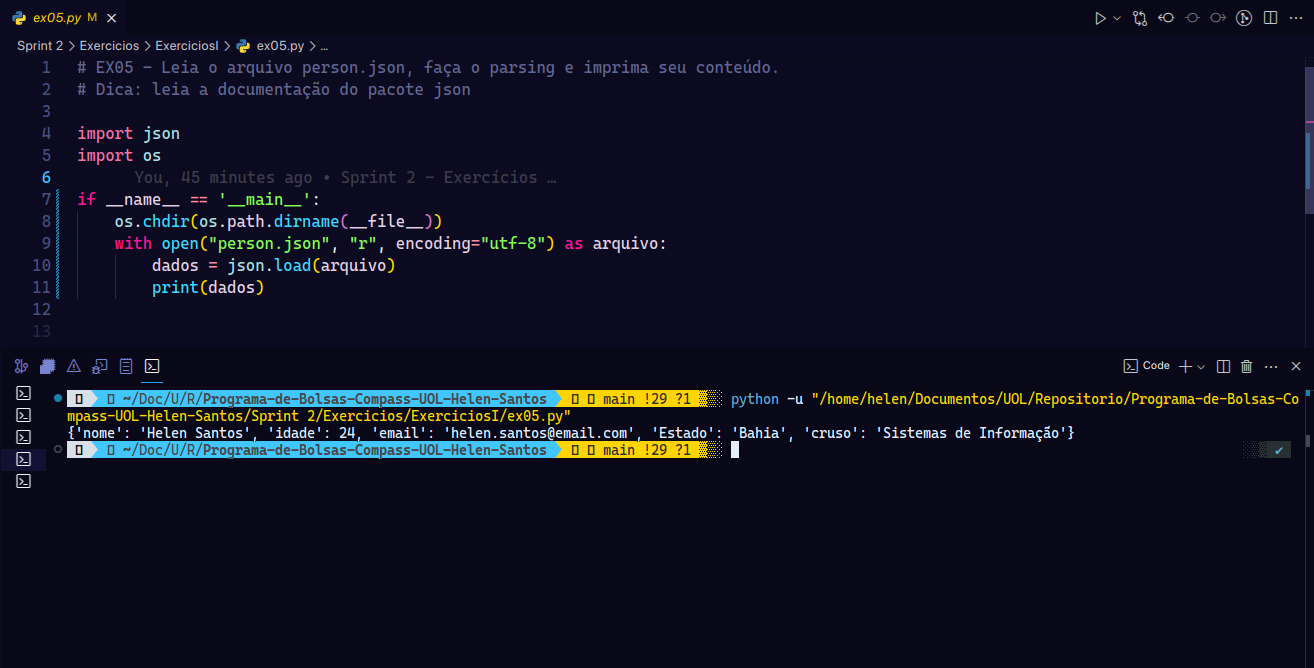
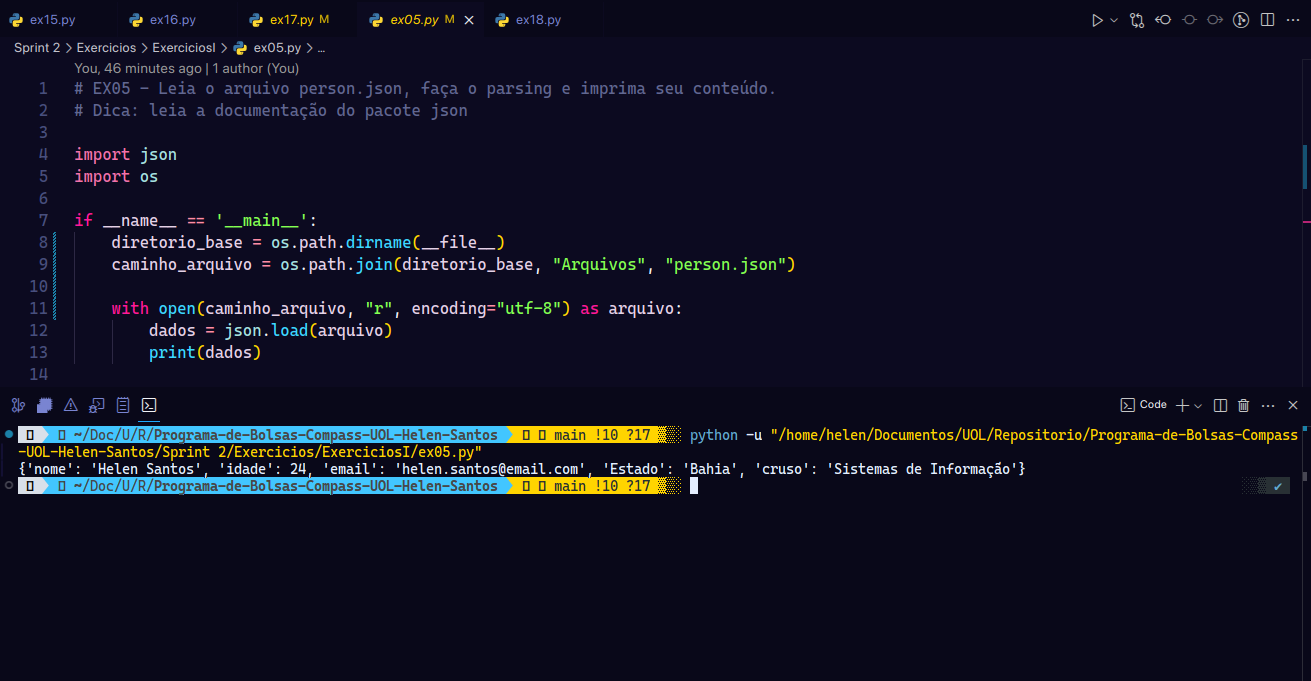
Sprint 2 - Exercícios

diff --git a/Sprint 2/Exercicios/ExerciciosII/ex25.py b/Sprint 2/Exercicios/ExerciciosII/ex25.py
@@ -1,0 +1,58 @@
+# 25 - Você foi encarregado de desenvolver uma nova feature  para um sistema de gestão de supermercados. 
+# O analista responsável descreveu o requisito funcional da seguinte forma:
+# - Para realizar um cálculo de custo, o sistema deverá permitir filtrar um determinado conjunto de produtos,
+# de modo que apenas aqueles cujo valor unitário for superior à média deverão estar presentes no resultado. 
+
+# Vejamos o exemplo:
+
+# Conjunto de produtos (entrada):
+# Arroz: 4.99
+# Feijão: 3.49
+# Macarrão: 2.99
+# Leite: 3.29
+# Pão: 1.99
+# Produtos com valor acima da média:
+# Arroz: 4.99
+# Feijão: 3.49
+# Observe que estamos definindo a assinatura de uma função como parte de sua resposta.
+# Você não pode mudá-la, apenas codificar seu corpo. O parâmetro conteudo é um dicionário
+# cuja chave contém o nome do produto e o valor, o respectivo preço (ponto flutuante).
+# Observe um exemplo de valor para conteudo:
+# {
+#     "arroz": 4.99,
+#     "feijão": 3.49,
+#     "macarrão": 2.99,
+#     "leite": 3.29,
+#     "pão": 1.99
+# }
+# O retorno da função obrigatoriamente deve ser uma lista. Cada elemento da lista é uma 
+# tupla em que a primeira posição contém o nome do produto e a segunda, o respectivo preço. 
+# Veja um exemplo de retorno:
+# [
+ 
+# ('feijão', 3.49),
+ 
+#  ('arroz', 4.99)
+ 
+# ]
+# Importante: O retorno da função deve estar ordenado pelo preço do item (ordem crescente).
+
+def maiores_que_media(conteudo:dict)->list:
+    precos = conteudo.values()
+    media = sum(precos) / len(precos)
+    produtos_filtrados = filter(lambda item:item[1] > media, conteudo.items())
+    resultado = sorted(produtos_filtrados, key=lambda item: item[1])
+
+    return resultado
+
+
+if __name__ == "__main__":
+    conteudo = {
+        "arroz": 4.99,
+        "feijão": 3.49,
+        "macarrão": 2.99,
+        "leite": 3.29,
+        "pão": 1.99
+    }
+
+    print(maiores_que_media(conteudo))

diff --git a/Sprint 2/Exercicios/ExerciciosII/ex24.py b/Sprint 2/Exercicios/ExerciciosII/ex24.py
@@ -1,0 +1,41 @@
+# EX24 - Um determinado sistema escolar exporta a grade de notas dos estudantes em formato CSV. 
+# Cada linha do arquivo corresponde ao nome do estudante, acompanhado de 5 notas de avaliação,
+# no intervalo [0-10]. É o arquivo estudantes.csv de seu exercício.
+# Precisamos processar seu conteúdo, de modo a gerar como saída um relatório em formato textual
+# contendo as seguintes informações:
+# Nome do estudante
+# Três maiores notas, em ordem decrescente
+# Média das três maiores notas, com duas casas decimais de precisão
+# O resultado do processamento deve ser escrito na saída padrão (print), ordenado pelo nome do estudante e obedecendo ao formato descrito a seguir:
+# Nome: <nome estudante> Notas: [n1, n2, n3] Média: <média>
+# Exemplo:
+# Nome: Maria Luiza Correia Notas: [7, 5, 5] Média: 5.67
+# Nome: Maria Mendes Notas: [7, 3, 3] Média: 4.33
+# Em seu desenvolvimento você deverá utilizar lambdas e as seguintes funções:
+# round
+# map
+# sorted
+
+import os
+
+if __name__ == "__main__": 
+    diretorio_base = os.path.dirname(__file__)  
+    caminho_arquivo = os.path.join(diretorio_base, "Arquivos", "estudantes.csv")
+    
+    with open(caminho_arquivo, "r", encoding="utf-8") as arquivo:
+        linhas = arquivo.readlines()
+    
+    alunos = []
+
+    for linha in linhas:
+        partes = linha. strip().split(",")
+        nome = partes[0]
+        notas = list(map(int, partes[1:]))
+        maiores_notas = sorted(notas, reverse=True) [:3]
+        media = round(sum(maiores_notas) / 3, 2)
+        alunos.append((nome, maiores_notas, media))
+
+    alunos_ordenados = sorted(alunos, key=lambda x: x[0])
+    for aluno in alunos_ordenados:
+        nome, notas, media = aluno
+        print(f"Nome: {nome} Notas: {notas} Média: {media}")

diff --git a/Sprint 2/Exercicios/ExerciciosII/ex23.py b/Sprint 2/Exercicios/ExerciciosII/ex23.py
@@ -1,0 +1,30 @@
+# EX23 - A função calcular_valor_maximo deve receber dois parâmetros, chamados de operadores e operandos. 
+# Em operadores, espera-se uma lista de caracteres que representam as operações matemáticas suportadas
+# (+, -, /, *, %), as quais devem ser aplicadas à lista de operadores nas respectivas posições. Após aplicar
+# cada operação ao respectivo par de operandos, a função deverá retornar o maior valor dentre eles.
+# Veja o exemplo:
+# Entrada
+# operadores = ['+','-','*','/','+']
+# operandos  = [(3,6), (-7,4.9), (8,-8), (10,2), (8,4)]
+# Aplicar as operações aos pares de operandos
+# [ 3+6 , -7-4.9, 8*-8 , 10/2 , 8+4 ]
+# Obter o maior dos valores
+# 12
+# Na resolução da atividade você deverá aplicar as seguintes funções:
+# max
+# zip
+# map
+
+def calcular_valor_maximo(operadores,operandos) -> float:
+    resultados = map(lambda x: x[1][0] + x[1][1] if x[0] == '+' else
+                               x[1][0] - x[1][1] if x[0] == '-' else
+                               x[1][0] * x[1][1] if x[0] == '*' else
+                               x[1][0] / x[1][1] if x[0] == '/' else
+                               x[1][0] % x[1][1],
+                     zip(operadores, operandos))
+    return max(resultados)
+
+if __name__ == "__main__":
+    operadores = ['+', '-', '*', '/', '+']
+    operandos  = [(3,6), (-7,4.9), (8,-8), (10,2), (8,4)]
+    print(calcular_valor_maximo(operadores, operandos))

diff --git a/Sprint 2/Exercicios/ExerciciosII/ex22.py b/Sprint 2/Exercicios/ExerciciosII/ex22.py
@@ -1,0 +1,30 @@
+# EX22 - A função calcula_saldo recebe uma lista de tuplas, correspondendo a um 
+# conjunto de lançamentos bancários. Cada lançamento é composto pelo seu valor 
+# (sempre positivo) e pelo seu tipo (C - crédito ou D - débito). 
+# Abaixo apresentando uma possível entrada para a função.
+# lancamentos = [
+#     (200,'D'),
+#     (300,'C'),
+#     (100,'C')
+# ]
+# A partir dos lançamentos, a função deve calcular o valor final, somando créditos e subtraindo débitos. 
+# Na lista anterior, por exemplo, teríamos como resultado final 200.
+# Além de utilizar lambdas, você deverá aplicar, obrigatoriamente, as seguintes funções na resolução:
+# reduce (módulo functools)
+# map
+
+from functools import reduce
+
+def calcula_saldo(lancamentos) -> float:    
+    valores_convertidos = map(lambda x: x[0] if x[1] == 'C' else -x[0], lancamentos)
+    saldo = reduce(lambda acc, x: acc + x, valores_convertidos)
+    return saldo
+
+if __name__ == "__main__":
+    lancamentos = [
+        (200,'D'),
+        (300,'C'),
+        (100,'C')
+    ]
+
+    print(calcula_saldo(lancamentos))

diff --git a/Sprint 2/Exercicios/ExerciciosII/ex20.py b/Sprint 2/Exercicios/ExerciciosII/ex20.py
@@ -11,16 +11,18 @@
 
 import os
 
-if __name__ == "__main__":
-    os.chdir(os.path.dirname(__file__))
+if __name__ == "__main__":    
+    diretorio_base = os.path.dirname(__file__)  
+    caminho_arquivo = os.path.join(diretorio_base, "Arquivos", "number.txt")
 
-    with open("numeros.txt", "r", encoding="utf-8") as arquivo:
-        linhas = arquivo.readlines()
-    
-    numeros = list(map(int, linhas))
-    pares = list(filter(lambda x: x % 2 == 0, numeros))
-    maiores_pares = sorted(pares, reverse=True)[:5]
-    soma = sum(maiores_pares)
+    with open(caminho_arquivo, "r") as arquivo:    
+        numeros_str = arquivo.readlines()
+
+    numeros_int = map(int, numeros_str)
+    numeros_pares = filter(lambda x: x % 2 == 0, numeros_int)
+    numeros_pares_ordenados = sorted(numeros_pares, reverse=True)
+    maiores_pares = numeros_pares_ordenados[:5]
+    soma_maiores_pares = sum(maiores_pares)
 
     print(maiores_pares)
-    print(soma)
+    print(soma_maiores_pares)

diff --git a/Sprint 2/Exercicios/ExerciciosII/ex26.py b/Sprint 2/Exercicios/ExerciciosII/ex26.py
@@ -1,0 +1,14 @@
+# EX26 - Generators são poderosos recursos da linguagem Python. Neste exercício, 
+# você deverá criar o corpo de uma função, cuja assinatura já consta em seu arquivo 
+# de início (def pares_ate(n:int):) .
+# O objetivo da função pares_ate é retornar um generator para os valores pares no intervalo 
+# [2,n] . Observe que n representa o valor do parâmetro informado na chamada da função.
+
+def pares_ate(n:int):
+    for i in range(2, n + 1):
+        if i % 2 == 0:
+            yield i
+
+if __name__ == "__main__":
+    for numero in pares_ate(10):
+        print(numero)

diff --git a/Sprint 2/Exercicios/ExerciciosI/ex07.py b/Sprint 2/Exercicios/ExerciciosI/ex07.py
@@ -5,9 +5,10 @@
 import os
 
 if __name__ == '__main__':
-    os.chdir(os.path.dirname(__file__))
+    diretorio_base = os.path.dirname(__file__)  
+    caminho_arquivo = os.path.join(diretorio_base, "Arquivos", "arquivo_texto.txt")
 
-    with open("arquivo_texto.txt", "r", encoding="utf-8") as arquivo_texto:
+    with open(caminho_arquivo, "r", encoding="utf-8") as arquivo_texto:
         arquivo = arquivo_texto.readlines()
         for linha in arquivo:
             print(linha.strip())

diff --git a/Sprint 2/Exercicios/ExerciciosII/ex21.py b/Sprint 2/Exercicios/ExerciciosII/ex21.py
@@ -11,6 +11,6 @@ def conta_vogais(texto: str) -> int:
     return len(list(filter(lambda letra: letra in vogais, texto)))   
 
 if __name__ == "__main__":
-    print(conta_vogais("Python"))
-    print(conta_vogais("SQL"))
-    print(conta_vogais("DADOS"))
+    print(f"Quantidade de vogais: {conta_vogais("Python")}")
+    print(f"Quantidade de vogais: {conta_vogais("SQL")}")
+    print(f"Quantidade de vogais: {conta_vogais("DADOS")}")

diff --git a/Sprint 2/Exercicios/ExerciciosI/ex05.py b/Sprint 2/Exercicios/ExerciciosI/ex05.py
@@ -5,8 +5,10 @@ import json
 import os
 
 if __name__ == '__main__':
-    os.chdir(os.path.dirname(__file__))
-    with open("person.json", "r", encoding="utf-8") as arquivo:
+    diretorio_base = os.path.dirname(__file__)  
+    caminho_arquivo = os.path.join(diretorio_base, "Arquivos", "person.json")
+    
+    with open(caminho_arquivo, "r", encoding="utf-8") as arquivo:
         dados = json.load(arquivo)
         print(dados)
 
